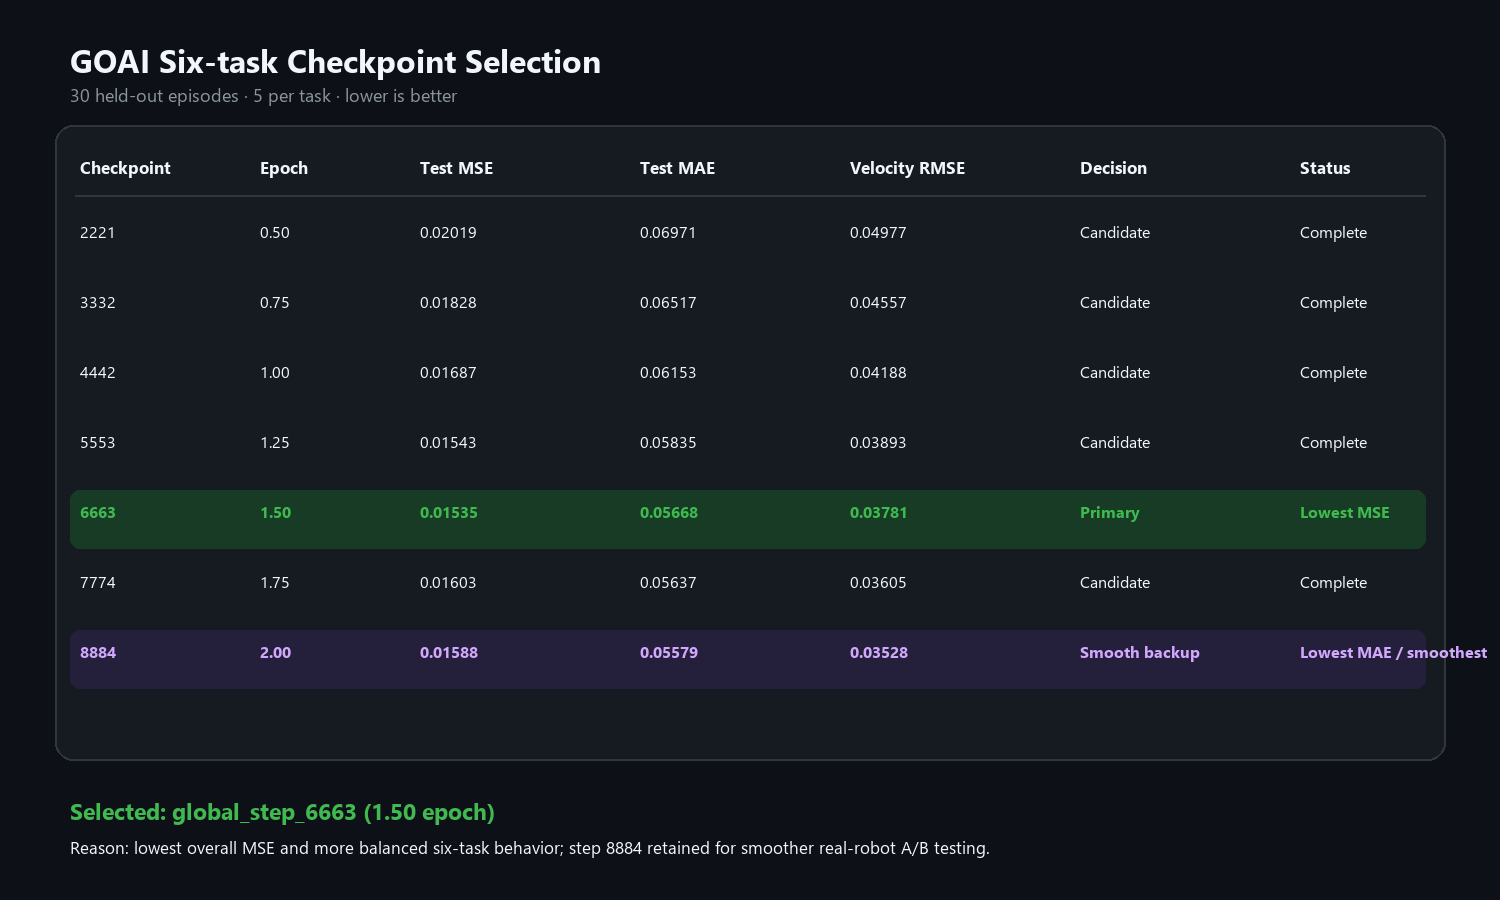
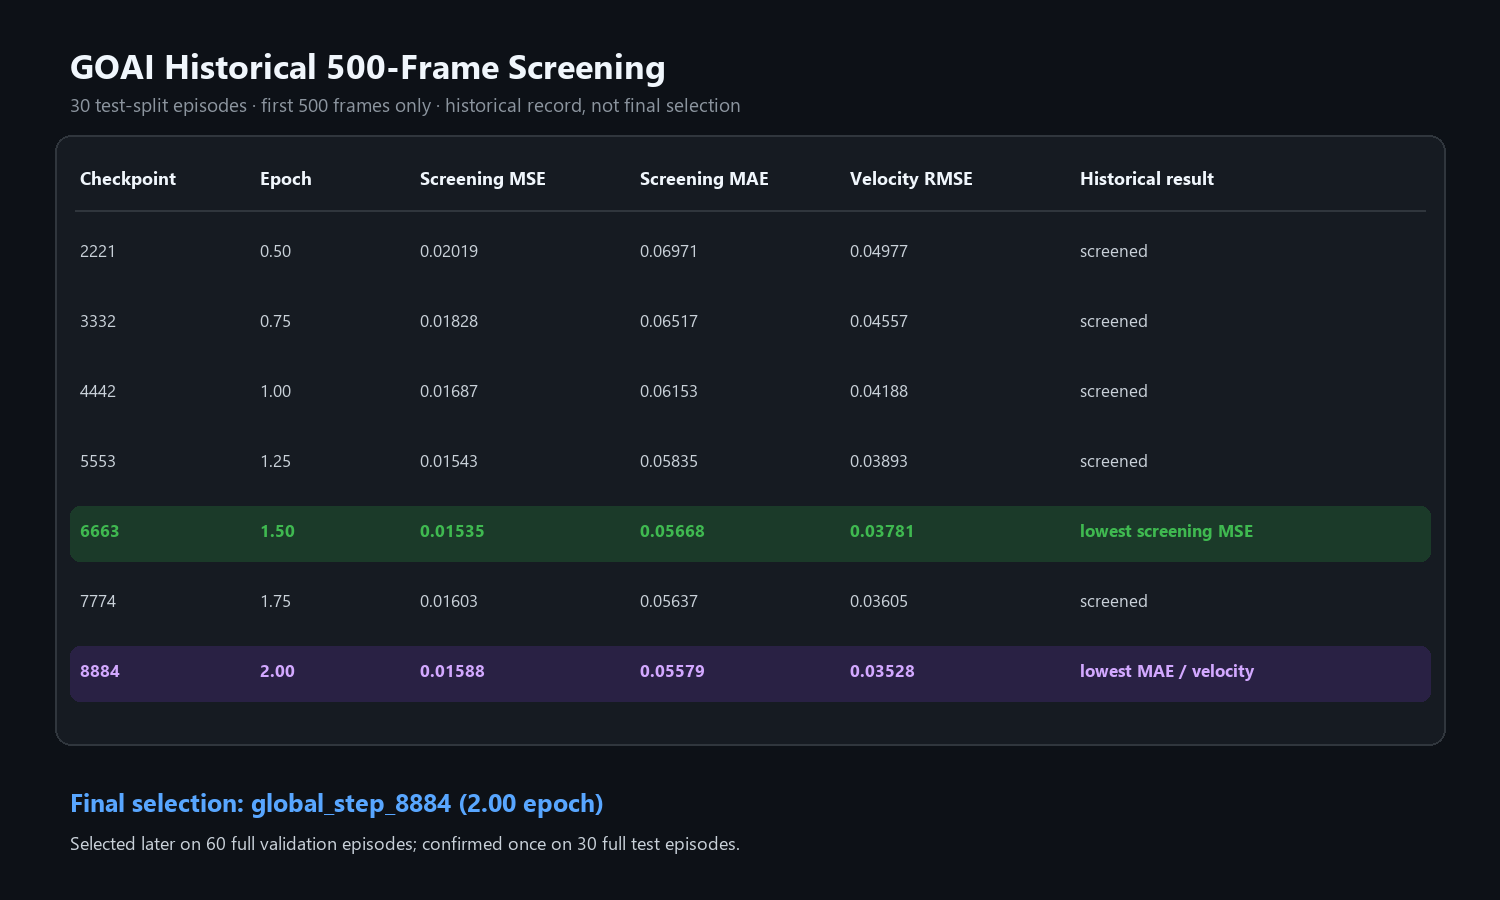
docs: reconcile final evaluation and deployment flow

diff --git a/scripts/render_historical_dashboard.py b/scripts/render_historical_dashboard.py
@@ -1,0 +1,62 @@
+"""Render the explicitly historical 500-frame checkpoint screening table."""
+
+from pathlib import Path
+
+from PIL import Image, ImageDraw, ImageFont
+
+
+ROOT = Path(__file__).resolve().parents[1]
+OUTPUT = ROOT / "assets" / "evaluation" / "model_selection_dashboard.png"
+ROWS = [
+    ("2221", "0.50", "0.02019", "0.06971", "0.04977", "screened"),
+    ("3332", "0.75", "0.01828", "0.06517", "0.04557", "screened"),
+    ("4442", "1.00", "0.01687", "0.06153", "0.04188", "screened"),
+    ("5553", "1.25", "0.01543", "0.05835", "0.03893", "screened"),
+    ("6663", "1.50", "0.01535", "0.05668", "0.03781", "lowest screening MSE"),
+    ("7774", "1.75", "0.01603", "0.05637", "0.03605", "screened"),
+    ("8884", "2.00", "0.01588", "0.05579", "0.03528", "lowest MAE / velocity"),
+]
+
+
+def font(size: int, bold: bool = False) -> ImageFont.FreeTypeFont:
+    filename = "segoeuib.ttf" if bold else "segoeui.ttf"
+    return ImageFont.truetype(str(Path("C:/Windows/Fonts") / filename), size)
+
+
+canvas = Image.new("RGB", (1500, 900), "#0d1117")
+draw = ImageDraw.Draw(canvas)
+draw.text((70, 42), "GOAI Historical 500-Frame Screening", fill="#f0f6fc", font=font(34, True))
+draw.text(
+    (70, 91),
+    "30 test-split episodes · first 500 frames only · historical record, not final selection",
+    fill="#8b949e",
+    font=font(19),
+)
+
+box = (55, 135, 1445, 745)
+draw.rounded_rectangle(box, radius=16, fill="#161b22", outline="#30363d", width=2)
+columns = [80, 260, 420, 640, 850, 1080]
+headers = ["Checkpoint", "Epoch", "Screening MSE", "Screening MAE", "Velocity RMSE", "Historical result"]
+for x, header in zip(columns, headers):
+    draw.text((x, 165), header, fill="#f0f6fc", font=font(18, True))
+draw.line((75, 210, 1425, 210), fill="#30363d", width=2)
+
+for index, row in enumerate(ROWS):
+    y = 238 + index * 70
+    color = "#d2a8ff" if row[0] == "8884" else "#3fb950" if row[0] == "6663" else "#c9d1d9"
+    if row[0] in {"6663", "8884"}:
+        fill = "#1b3a29" if row[0] == "6663" else "#292144"
+        draw.rounded_rectangle((70, y - 12, 1430, y + 43), radius=10, fill=fill)
+    values = row[:5] + (row[5],)
+    for x, value in zip(columns, values):
+        draw.text((x, y), value, fill=color, font=font(17, row[0] in {"6663", "8884"}))
+
+draw.text((70, 785), "Final selection: global_step_8884 (2.00 epoch)", fill="#58a6ff", font=font(25, True))
+draw.text(
+    (70, 830),
+    "Selected later on 60 full validation episodes; confirmed once on 30 full test episodes.",
+    fill="#c9d1d9",
+    font=font(18),
+)
+OUTPUT.parent.mkdir(parents=True, exist_ok=True)
+canvas.save(OUTPUT, optimize=True)

diff --git a/README.md b/README.md
@@ -39,6 +39,7 @@ Final_GOAI/
 │   ├── goai_piper_x.yaml                    # 双 PIPER 关节、夹爪与三相机映射
 │   ├── train_expert_only.yaml               # LingBot-VLA 2.0 第一阶段训练配置
 │   ├── deploy_temporal_adaptive.yaml        # 当前离线部署后处理参数
+│   ├── deploy_temporal_consensus_experimental.yaml # 当前参数的可追溯实验副本
 │   └── selected_model.yaml                  # step 8884 最终离线选择结论与指标
 ├── patches/
 │   └── lingbot-vla-v2/
@@ -49,8 +50,10 @@ Final_GOAI/
 │   │   ├── create_lerobot_episode_splits.py
 │   │   └── validate_lerobot_v30_joint.py
 │   └── deploy/
-│       ├── start_lingbot_vla_v2_server.sh      # 15-step 闭环重规划推理入口
-│       └── action_chunk_blender.py              # 时序集成、共识门控、自适应 EMA 与振荡抑制
+│       ├── start_lingbot_vla_v2_server.sh      # 启动模型服务端，始终返回完整 50-step chunk
+│       ├── action_chunk_blender.py              # 客户端 15-step 重规划与当前自适应后处理
+│       └── temporal_ensemble_filter.py           # 时序集成基础实现
+├── scripts/render_historical_dashboard.py       # 重绘历史 500-frame 初筛仪表盘
 ├── splits/
 │   ├── episode_splits_seed2026.json         # 完整、可审计的固定划分清单
 │   ├── train_episodes.txt                    # 510 episodes
@@ -59,7 +62,8 @@ Final_GOAI/
 │   └── SHA256SUMS                            # 划分文件完整性校验
 ├── .gitignore                                # 排除数据、权重、检查点、日志与缓存
 ├── README.md                                 # 项目总览
-└── REPRODUCE.md                              # 从数据转换到训练的完整复现指南
+├── REPRODUCE.md                              # 从数据转换到训练的完整复现指南
+└── TRAINING_AND_MODEL_SELECTION_PLAN.md      # 已执行训练、选模与待完成真机计划
 ```
 
 仓库只保存团队原创代码、配置、固定划分和复现文档；原始数据、基础模型权重与训练检查点通过官方来源下载，不直接提交到 Git。
@@ -129,10 +133,10 @@ L_total = L_flow_action
 评估分为训练健康、离线六任务验证和双 PIPER 真机三层：
 
 1. **训练健康**：检查 NaN/Inf、总 loss、动作 loss、辅助 loss、梯度范数、显存、吞吐量、MoE 路由熵和专家使用率；出现专家塌缩、动作越界或 loss 突跳的检查点直接淘汰。
-2. **离线验证**：只使用 60 条 validation episodes，分别计算六任务 action MAE/RMSE、50-step 轨迹 ADE/FDE、夹爪开闭正确率、速度/加速度/jerk、动作越界率、辅助教师 loss 和推理延迟。
+2. **离线验证**：只使用 60 条 validation episodes，实际计算六任务 action MSE/MAE、Velocity RMSE、静止段速度 RMS、Jerk RMS、Jerk P99.9 和最差任务 MSE；所有候选均运行完整 episode，并使用相同的部署后处理参数。
 3. **候选排序**：综合惩罚权重为 MSE 25%、MAE 20%、最差任务MSE 15%、Velocity RMSE 15%、静止段速度RMS 10%、Jerk RMS 10%、Jerk P99.9 5%，所有指标越低越好。
 4. **冻结测试**：由60条完整 validation episodes 选出 `global_step_8884` 并冻结模型与后处理后，30条 test episodes 各运行一次完整序列；结果仅用于最终报告，不再调参。由于这30条在流程纠正前曾用于前500帧快速初筛，本次完整测试属于冻结后的全长度确认，但不能宣称为从未观察过的严格独立测试。
-5. **真机筛选**：Top-3 先做动作反归一化、关节限位和低速空载回放，再直接进入双 PIPER；先每模型每任务 3 次初筛，再对 Top-2 每模型每任务至少 5 次正式测试。
+5. **真机验证（待完成）**：当前唯一候选 `global_step_8884` 先做动作反归一化、关节限位和低速空载回放，再进入双 PIPER 闭环测试；离线落选模型不再占用真机试验预算。
 
 真机最终记录六任务成功率、最差任务成功率、完成时间、人工急停、碰撞/越界、动作平滑性和推理延迟。最终模型按安全性和六任务稳定成功率选择，不按最低训练 loss 单独决定。
 
@@ -146,7 +150,7 @@ L_total = L_flow_action
 
 #### Model Selection Dashboard
 
-第一阶段曾以30条 held-out episodes 的前500帧对七个checkpoint进行快速初筛：`global_step_6663` 获得最低阶段性MSE，`global_step_8884` 获得最低阶段性MAE与速度误差。该图仅保留为可审计的历史初筛记录，不代表完整episode最终选择。
+第一阶段曾以30条 test episodes 的前500帧对七个checkpoint进行快速初筛：`global_step_6663` 获得最低阶段性MSE，`global_step_8884` 获得最低阶段性MAE与速度误差。该用法后来被纠正，图中明确标记为历史筛选记录；它不代表完整episode最终选择，也不作为当前选模依据。
 
 ![GOAI Model Selection Dashboard](assets/evaluation/model_selection_dashboard.png)
 
@@ -162,9 +166,9 @@ The overview below uses the lowest-MSE full test episode from each of the six ta
 
 #### Historical 500-Frame Screening Trend
 
-![GOAI Checkpoint Test Loss Curve](assets/evaluation/checkpoint_test_loss_curve.svg)
+![GOAI Historical Checkpoint Screening Curve](assets/evaluation/checkpoint_test_loss_curve.svg)
 
-| Checkpoint | Epoch | Test MSE ↓ | Test MAE ↓ | Velocity RMSE ↓ | 结论 |
+| Checkpoint | Epoch | Screening MSE ↓ | Screening MAE ↓ | Velocity RMSE ↓ | 历史初筛结论 |
 |---:|---:|---:|---:|---:|---|
 | 2,221 | 0.50 | 0.02019 | 0.06971 | 0.04977 | 候选 |
 | 3,332 | 0.75 | 0.01828 | 0.06517 | 0.04557 | 候选 |
@@ -365,7 +369,6 @@ train:
   loss_type: fm
   enable_gradient_checkpointing: true
   enable_mixed_precision: true
-  use_compile: true
   optimizer: muon
   lr: 1.0e-5
   lr_warmup_ratio: 0.05
@@ -379,7 +382,7 @@ train:
 
 该配置面向 **2 × RTX 6000D 84GB**：`16 × 2 × 4 = global batch 128`。双卡10-step实测峰值为62.72GB/卡，预热后约10秒/optimizer step。若长期训练显存不稳，则回退为 `micro_batch_size=8`、`gradient_accumulation_steps=8`，全局批量仍保持128。
 
-与官方 Real-World 模板相比，本项目保留 `meanstd`、MSE Flow Matching、FSDP2、`flex_cached`、fused MoE、Muon、三路相机和原生深度/未来视频监督；针对仅510条训练轨迹，改为 Expert-only、`lr=1e-5`、10,000 steps和每1,000 steps选模。配置依据：[LingBot-VLA 2.0 Training Configuration Guide](https://github.com/Robbyant/lingbot-vla-v2/blob/main/configs/vla/Training_Config.md#training-configuration-guide)。
+与官方 Real-World 模板相比，本项目保留 `meanstd`、MSE Flow Matching、FSDP2、`flex_cached`、fused MoE、Muon、三路相机和原生深度/未来视频监督；针对仅510条训练轨迹，采用 Expert-only、`lr=1e-5`、8,884 steps（2.00 standard epochs）和七个固定候选保存点。配置依据：[LingBot-VLA 2.0 Training Configuration Guide](https://github.com/Robbyant/lingbot-vla-v2/blob/main/configs/vla/Training_Config.md#training-configuration-guide)。
 
 ### 6.2 🧪 执行顺序
 
@@ -387,8 +390,8 @@ train:
 2. 校验所有基础权重与配置路径；
 3. 执行单步正向、反向和优化器压力测试；
 4. 运行 20–50 steps 冒烟训练；
-5. 运行 1,000 steps 阶段检查；
-6. 保存并评估 5,000 / 10,000 steps 候选检查点；
+5. warmup 至约 step 444，并持续检查学习率、loss、梯度范数与 MoE 路由；
+6. 在 2,221 / 3,332 / 4,442 / 5,553 / 6,663 / 7,774 / 8,884 steps 保存可续训检查点；
 7. 按六项任务分别统计验证结果；
 8. 依据离线与真机表现决定停止、续训或调整。
 
@@ -410,7 +413,7 @@ steps_per_epoch = floor(568610 / global_batch_size)
    ├─ 离线验证：六任务分项 loss、动作误差、轨迹可视化
    ├─ 冻结测试：仅对入选检查点运行一次测试集
    ├─ 安全回放：反归一化、关节限位、速度和动作连续性
-   └─ 双 PIPER：低速空载 → Top-3 单任务初筛 → Top-2 六任务复测
+   └─ 双 PIPER（待完成）：step8884 低速空载 → 六任务闭环验证
 ```
 
 部署前必须完成：
@@ -429,7 +432,6 @@ steps_per_epoch = floor(568610 / global_batch_size)
 ```bash
 cd /path/to/lingbot-vla-v2
 export MODEL_PATH=/path/to/global_step_8884/hf_ckpt
-export EXECUTION_HORIZON=15
 bash /path/to/Final_GOAI/scripts/deploy/start_lingbot_vla_v2_server.sh
 ```
 
@@ -444,7 +446,7 @@ python -m deploy.lingbot_vla_v2_policy \
   --use_compile true
 ```
 
-机器人客户端使用 `scripts/deploy/action_chunk_blender.py` 中的 `ActionChunkBlender` 处理服务端返回的完整 50-step action chunk。在 25 FPS 数据/控制频率下，每执行 15 steps（约 0.6 秒）重新观测和推理；正式离线候选参数见 `configs/deploy_temporal_adaptive.yaml`，模型选择元数据见 `configs/selected_model.yaml`。
+机器人客户端必须显式接入 `scripts/deploy/action_chunk_blender.py` 中的 `ActionChunkBlender`，并按 `configs/deploy_temporal_adaptive.yaml` 实例化；服务端启动脚本本身只负责返回完整 50-step action chunk，不会替客户端截断或滤波。在 25 FPS 数据/控制频率下，客户端每执行 15 steps（约 0.6 秒）重新观测和推理；模型选择元数据见 `configs/selected_model.yaml`。
 
 当前离线候选配置使用一致性门控，并用 7-step 窗口识别至少 3 次小幅方向反转；机械臂/夹爪识别阈值分别为 `0.030/0.100`，触发时使用 `alpha=0.05`。六任务完整离线回放中，微振荡总幅度下降约 44.95%，静止段抖动下降约 2.39%，Jerk RMS 下降约 1.97%，MSE 增加约 0.26%。`configs/deploy_temporal_consensus_experimental.yaml` 仅作为同参数的 A/B 追溯副本。该配置仍需确认滤波所处坐标系并完成低速真机验证；累积死区默认关闭，避免“保持—跳变”台阶。
 

diff --git a/TRAINING_AND_MODEL_SELECTION_PLAN.md b/TRAINING_AND_MODEL_SELECTION_PLAN.md
@@ -10,12 +10,12 @@
 
 双卡预热后约为 **10 秒/optimizer step**。本轮完成 8,884 optimizer steps、七个可续训检查点，并完成三候选六任务完整 episode 复评；以下算力表保留为后续复现实验排期参考。
 
-| RTX 6000D 数量 | 规划单步时间 | 10,000 steps 纯训练 | 加 10% 运行开销 | 一天内完成判断 |
+| RTX 6000D 数量 | 规划单步时间 | 8,884 steps 纯训练 | 加 10% 运行开销 | 一天内完成判断 |
 |---:|---:|---:|---:|---|
-| 1 | 14–18 s | 38.9–50.0 h | 42.8–55.0 h | 不可行 |
-| 2 | 8–11.5 s | 22.2–31.9 h | 24.4–35.1 h | 临界，不保证 |
-| **4** | **4.5–7.2 s** | **12.5–20.0 h** | **13.8–22.0 h** | **推荐** |
-| 8 | 2.8–4.2 s | 7.8–11.7 h | 8.6–12.8 h | 可行，但性价比较低 |
+| 1 | 14–18 s | 34.5–44.4 h | 38.0–48.9 h | 不可行 |
+| 2 | 8–11.5 s | 19.7–28.4 h | 21.7–31.2 h | 临界，不保证 |
+| **4** | **4.5–7.2 s** | **11.1–17.8 h** | **12.2–19.5 h** | **推荐** |
+| 8 | 2.8–4.2 s | 6.9–10.4 h | 7.6–11.4 h | 可行，但性价比较低 |
 
 这些是排期区间，不是硬件理论峰值承诺。开跑后必须用同一配置实测 100 个稳定 steps，再更新预计完成时间。
 
@@ -164,14 +164,11 @@ global_batch_size = micro_batch_size × GPU数量 × gradient_accumulation_steps
 
 ### 第二级：离线六任务筛选
 
-先使用固定 held-out episodes 初筛七个候选，再对 1.50 / 1.75 / 2.00 epoch 三个候选统一运行六任务完整 episode：
+历史上曾使用 test split 前500帧初筛七个候选；流程纠正后，只用固定的60条 validation episodes 对 1.50 / 1.75 / 2.00 epoch 三个候选统一运行六任务完整 episode。本轮实际选模指标为：
 
-- 分任务 VLA/action loss；
-- 动作 MAE/RMSE 与 action chunk 连续性；
-- 末端动作误差和夹爪开闭正确率；
-- 最差任务成绩，而不只看六任务平均值；
-- 深度、未来深度、DINO 辅助 loss；
-- MoE 路由熵与专家使用均衡度。
+- 动作 MSE、MAE 与最差任务 MSE；
+- Velocity RMSE 与静止段速度 RMS；
+- Jerk RMS 与 Jerk P99.9 尾部尖峰。
 
 本轮实际使用的综合惩罚：
 
@@ -187,23 +184,23 @@ penalty = 0.25 × MSE
 
 离线阶段Top-3为step 6,663 / 7,774 / 8,884。60条完整validation episodes同配置复评的最终排序为 **8,884 > 7,774 > 6,663**；模型和后处理随即冻结，30条完整test episodes仅用于一次性全长度报告，不再调参。需披露：该test split在流程纠正前曾用于前500帧初筛，因此不是完全未观察的严格独立测试。
 
-### 第三级：安全回放与双 PIPER 初筛
+### 第三级：安全回放与双 PIPER 验证（待完成）
 
-Top-3 先经过：
+离线阶段已经选出唯一真机候选 `global_step_8884`。该模型先经过：
 
 1. 动作反归一化检查；
 2. 关节顺序、单位、方向、夹爪范围检查；
 3. 速度、加速度、jerk 和关节限位检查；
 4. 低速空载回放；
-5. 在人工急停监护下直接进入双 PIPER，每模型 × 六任务 × 3 次，共 54 次低速初筛试验。
+5. 在人工急停监护下进入双 PIPER，每任务先执行 3 次低速初筛试验。
 
-记录成功率、首次成功时间、人工急停次数、碰撞/越界次数和任务间最低成功率，选出 **Top-2**。
+记录成功率、首次成功时间、人工急停次数、碰撞/越界次数和任务间最低成功率；不再用离线落选模型消耗真机试验预算。
 
-### 第四级：比赛真机最终选择
+### 第四级：比赛真机确认（待完成）
 
-Top-2 在双 PIPER 上执行：
+`global_step_8884` 在双 PIPER 上执行：
 
-- 每模型 × 六任务 × 5 次，至少 60 次正式试验；
+- 六任务各至少 5 次，共至少 30 次正式试验；
 - 初始物体位置做比赛允许范围内扰动；
 - 相机曝光、光照和背景做小范围变化；
 - 统计总成功率与最差任务成功率；

diff --git a/REPRODUCE.md b/REPRODUCE.md
@@ -75,11 +75,10 @@ python tasks/vla/train_lingbotvla.py --config configs/vla/real_robot/goai_piper_
 ```bash
 cd /path/to/lingbot-vla-v2
 export MODEL_PATH=/path/to/global_step_8884/hf_ckpt
-export EXECUTION_HORIZON=15
 bash /path/to/Final_GOAI/scripts/deploy/start_lingbot_vla_v2_server.sh
 ```
 
-在连接机械臂前，必须依次完成输出维度、反归一化、关节顺序/单位/方向、夹爪范围、限位、速度/加速度、通信超时和急停验证。先空载低速运行，再逐任务闭环测试。离线最优不等于真机成功率最优。
+服务端启动脚本只返回完整50-step chunk；15-step截断与时序后处理必须在机器人客户端显式接入 `scripts/deploy/action_chunk_blender.py`，并按 `configs/deploy_temporal_adaptive.yaml` 配置。在连接机械臂前，必须依次完成输出维度、反归一化、关节顺序/单位/方向、夹爪范围、限位、速度/加速度、通信超时和急停验证。先空载低速运行，再逐任务闭环测试。离线最优不等于真机成功率最优。
 
 ## 6. 🔐 安全与许可证
 
